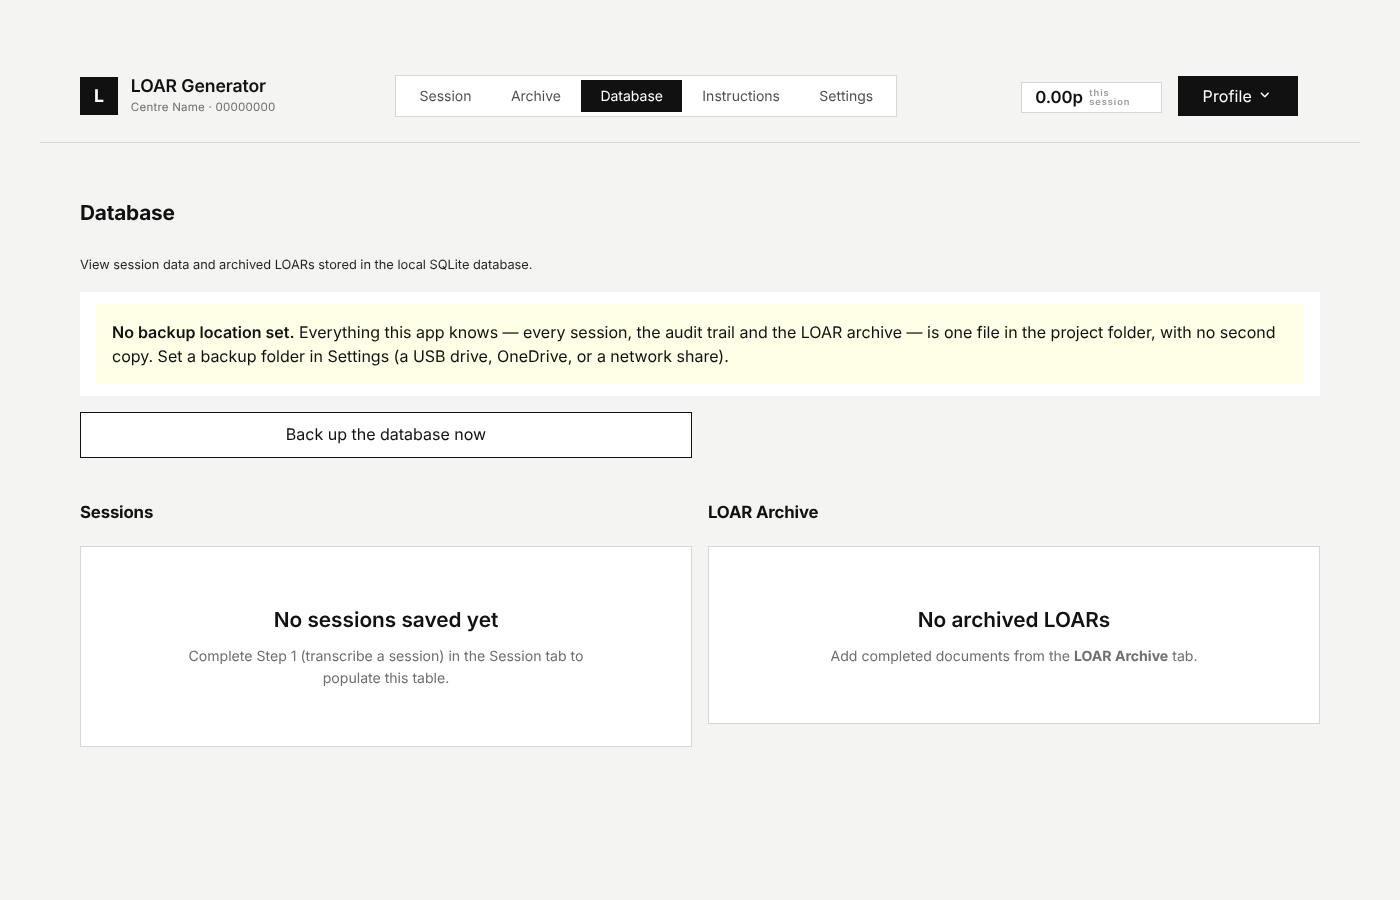
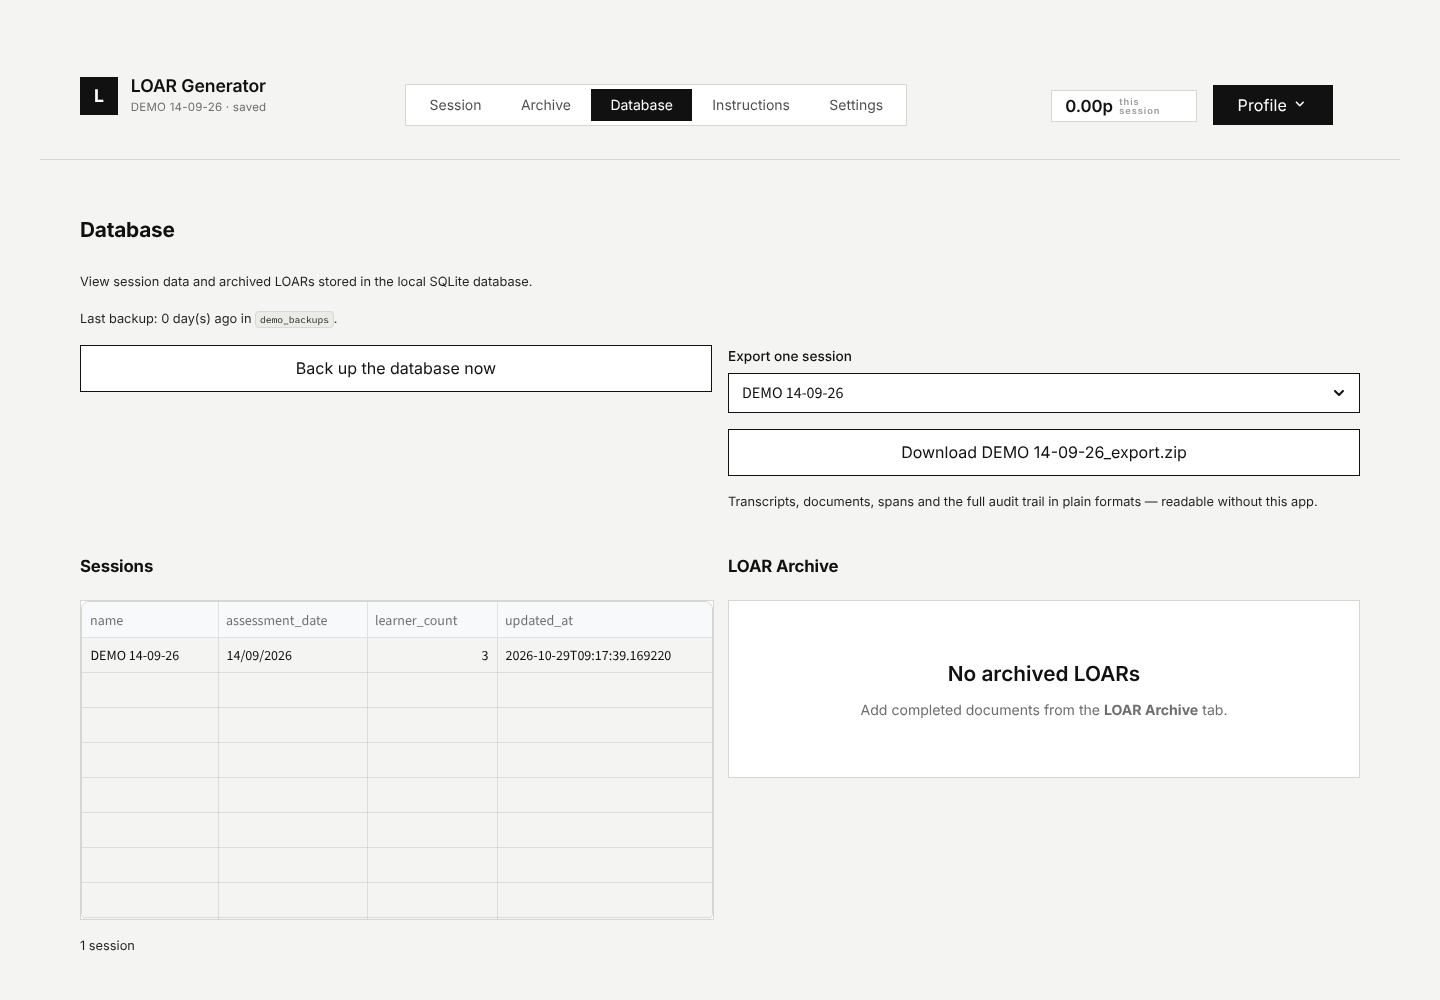
Replace screenshots with a fictional demo session and update the description
New screenshots show a populated session (invented learners, numbers and speech)
instead of an empty app: create-PIN and sign-in, the session overview in both
themes, Step 2 review and confirmed spans, Step 3 checks, Step 4 learner card with
provenance and evidence, database and settings.

README: describe the demo data, the PIN gate (no default PIN, lockout, local only),
erasure and retention tools, the security review and fixes, and current test counts.

Claude-Session: https://claude.ai/code/session_01D2K8EE42vFoEZYuJgvXjhL

diff --git a/README.md b/README.md
@@ -20,18 +20,52 @@ Writing these up from the recordings took me about 4 hours per session. The tool
 
 ## Screenshots
 
-The interface follows the same black and white design as my other projects, with a light and a dark theme. These show the app with no session loaded, so there is no learner data in them.
+These are taken from a **demo session with invented learners** (Maya Fictional, Daniel Example and Priya Sample), invented learner numbers and invented speech. They show the app working on a finished session, and no real assessment data appears in them. The app has a black and white design with a light and a dark theme.
+
+### Signing in
+
+There is no default PIN. The first time the app opens, the assessor creates one. After that it asks for it, and repeated wrong attempts lock the sign-in for a growing period.
 
 | | |
 |---|---|
-| ![Sign-in screen](screenshots/sign-in.png) | ![Session, step 1: upload](screenshots/session-light.png) |
-| Sign in with a PIN | Step 1: upload notes and recordings |
-| ![Session in the dark theme](screenshots/session-dark.png) | ![Database page](screenshots/database.png) |
-| The dark theme | Saved sessions, the archive and backups |
+| ![Create a PIN on first launch](screenshots/create-pin.png) | ![Sign in with a PIN](screenshots/sign-in.png) |
+| First launch: the assessor creates their own PIN | Every later launch: sign in with it |
+
+### Working through a session
+
+| | |
+|---|---|
+| ![Session overview in the light theme](screenshots/session-light.png) | ![Session overview in the dark theme](screenshots/session-dark.png) |
+| A finished session reopens where the assessor left off | The same screen in the dark theme |
+
+**Step 2, review and confirm.** The assessor checks the transcript and confirms the window in which each learner gave their presentation and answered questions. Every duration in the record comes from these confirmed windows.
+
+![Step 2: review the transcript](screenshots/step2-review.png)
+
+![Step 2: confirmed spans for each learner](screenshots/step2-spans.png)
+
+**Step 3, generate.** Checks run before any money is spent: group size, every voice matched, a topic set and every window confirmed. The assessor can add what they saw on the day, and the app shows an estimated cost.
+
+![Step 3: pre-generation checks and estimated cost](screenshots/step3-generate.png)
+
+**Step 4, review and download.** Each learner's record opens as a card. Every comment is backed by a quote and a timestamp, and the card says how the document was produced.
+
+![Step 4: a learner's record with its provenance panel](screenshots/learner-card-provenance.png)
+
+![Step 4: criterion comments with quotes and timestamps](screenshots/task1-evidence.png)
+
+![Step 4 in the dark theme](screenshots/step4-dark.png)
+
+### Data and settings
+
+| | |
+|---|---|
+| ![Database page](screenshots/database.png) | |
+| Saved sessions, backups and a self-contained export for an external quality check | |
 
 ![Settings page](screenshots/settings.png)
 
-Settings: assessor and centre details, and which AI model drafts the record.
+Settings: assessor and centre details, the AI model, session timings, backups, and data protection tools for retention and for erasing a single learner.
 
 ## How it works
 
@@ -64,11 +98,13 @@ flowchart TD
 
 **The record must survive.** Everything is stored in one SQLite database with JSON backups, so a record can be produced again if an external quality check asks for it.
 
+**Security reviewed, then fixed.** I ran an AI-assisted security audit (Cloudflare's open-source security-audit skill) over the highest-risk parts of the code. It was a read-only review of the source, so I treated its findings as leads to verify rather than facts. The real ones are fixed and tested: the app has no default PIN, locks sign-in after repeated wrong attempts and listens only on the local machine; erasing a learner now removes every copy of their data and not only the database rows; and a record can no longer be matched to the wrong learner's document.
+
 ## Testing and quality
 
-- 330 automated tests across 18 test files, written with pytest
+- Over 480 automated tests across 22 test files, written with pytest
 - Every change is linted, format-checked and tested by GitHub Actions
-- Tests cover speaker verification, evidence rules, validators, document building, backup and session restore
+- Tests cover speaker verification, evidence rules, validators, document building, backup, session restore, the PIN gate and data erasure
 - The prompt sent to the model is locked with a checksum, so it cannot change by accident
 
 ## Stack
@@ -88,12 +124,13 @@ flowchart TD
 - The audio is transcribed on the assessor's own machine and is never uploaded.
 - The transcript text is sent to the Claude API to draft the comments.
 - Learner names, recordings, transcripts, documents and the database are excluded from version control. The repository holds source code only.
-- The app is protected by a PIN.
+- The app is protected by a PIN that the assessor creates on first launch. It is stored only as a salted hash, repeated wrong attempts lock the sign-in, and the app listens on the local machine only.
+- Retention and erasure tools remove a session or a single learner from the database, the backups and the generated documents.
 
 ## Size
 
 - About 21,000 lines of application code
-- About 4,600 lines of tests
+- About 5,600 lines of tests
 - Set-up scripts that install, repair and update the app on a new PC with one command
 
 ## What I learned
